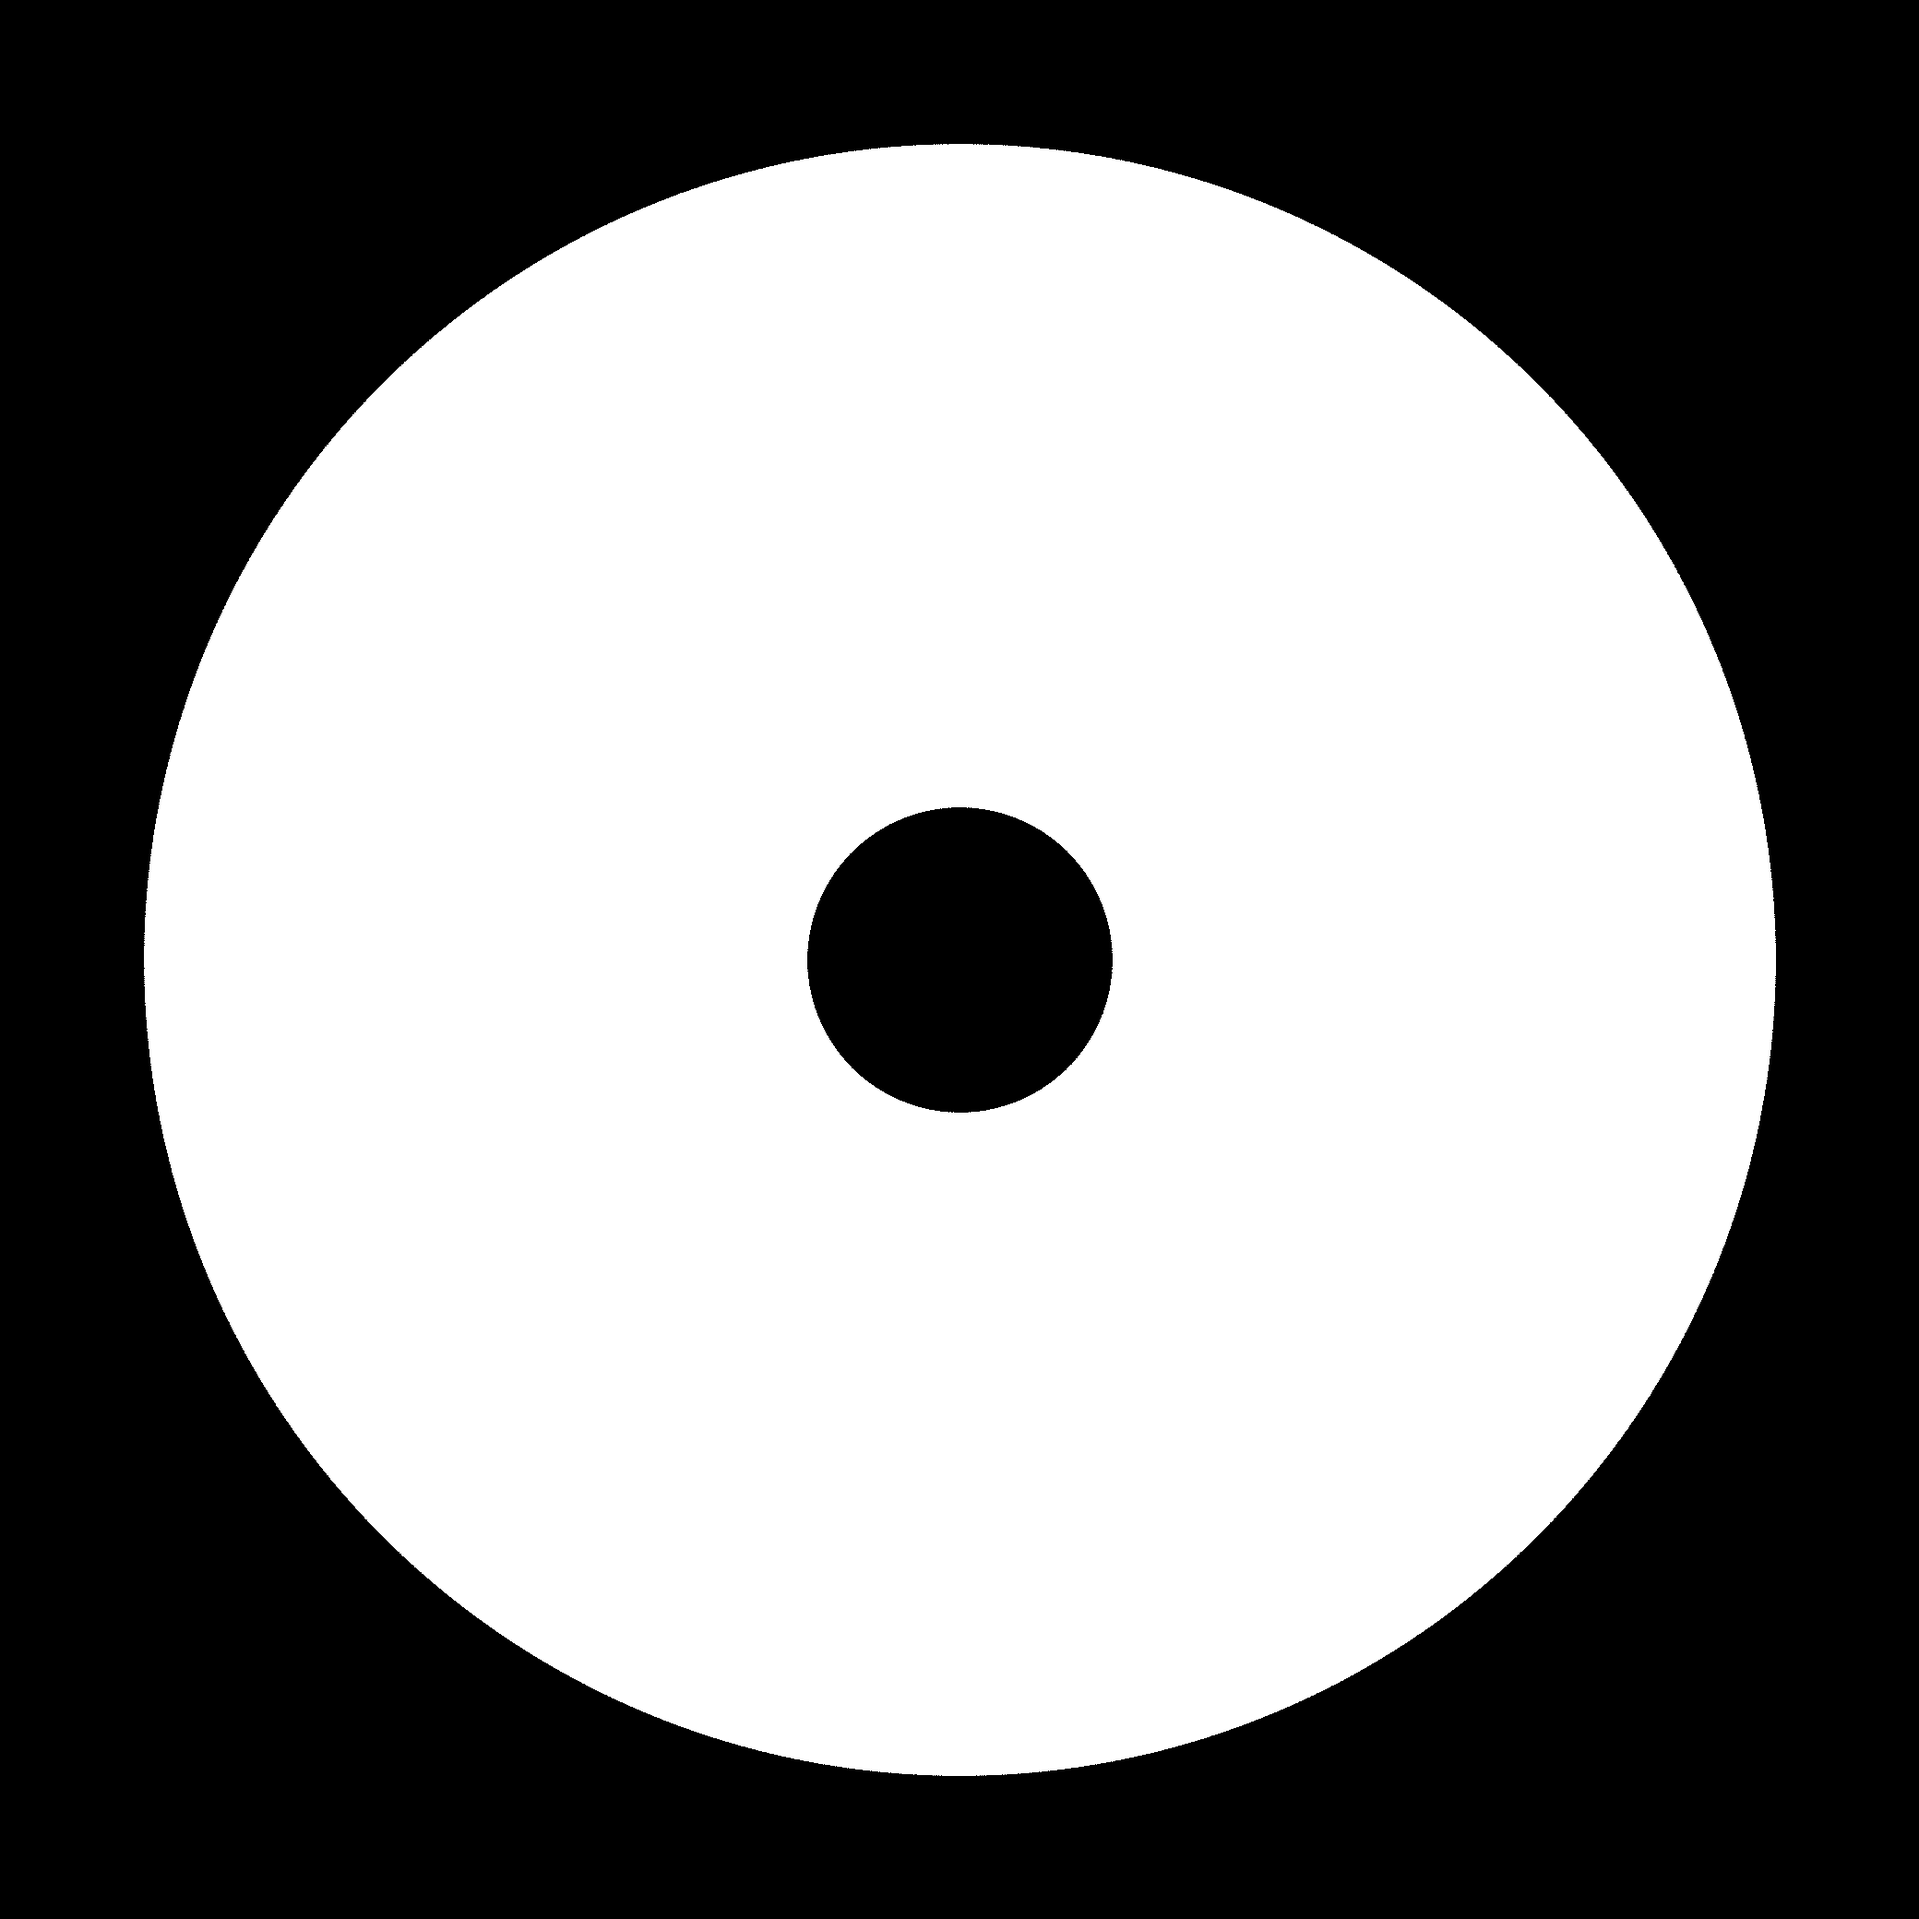
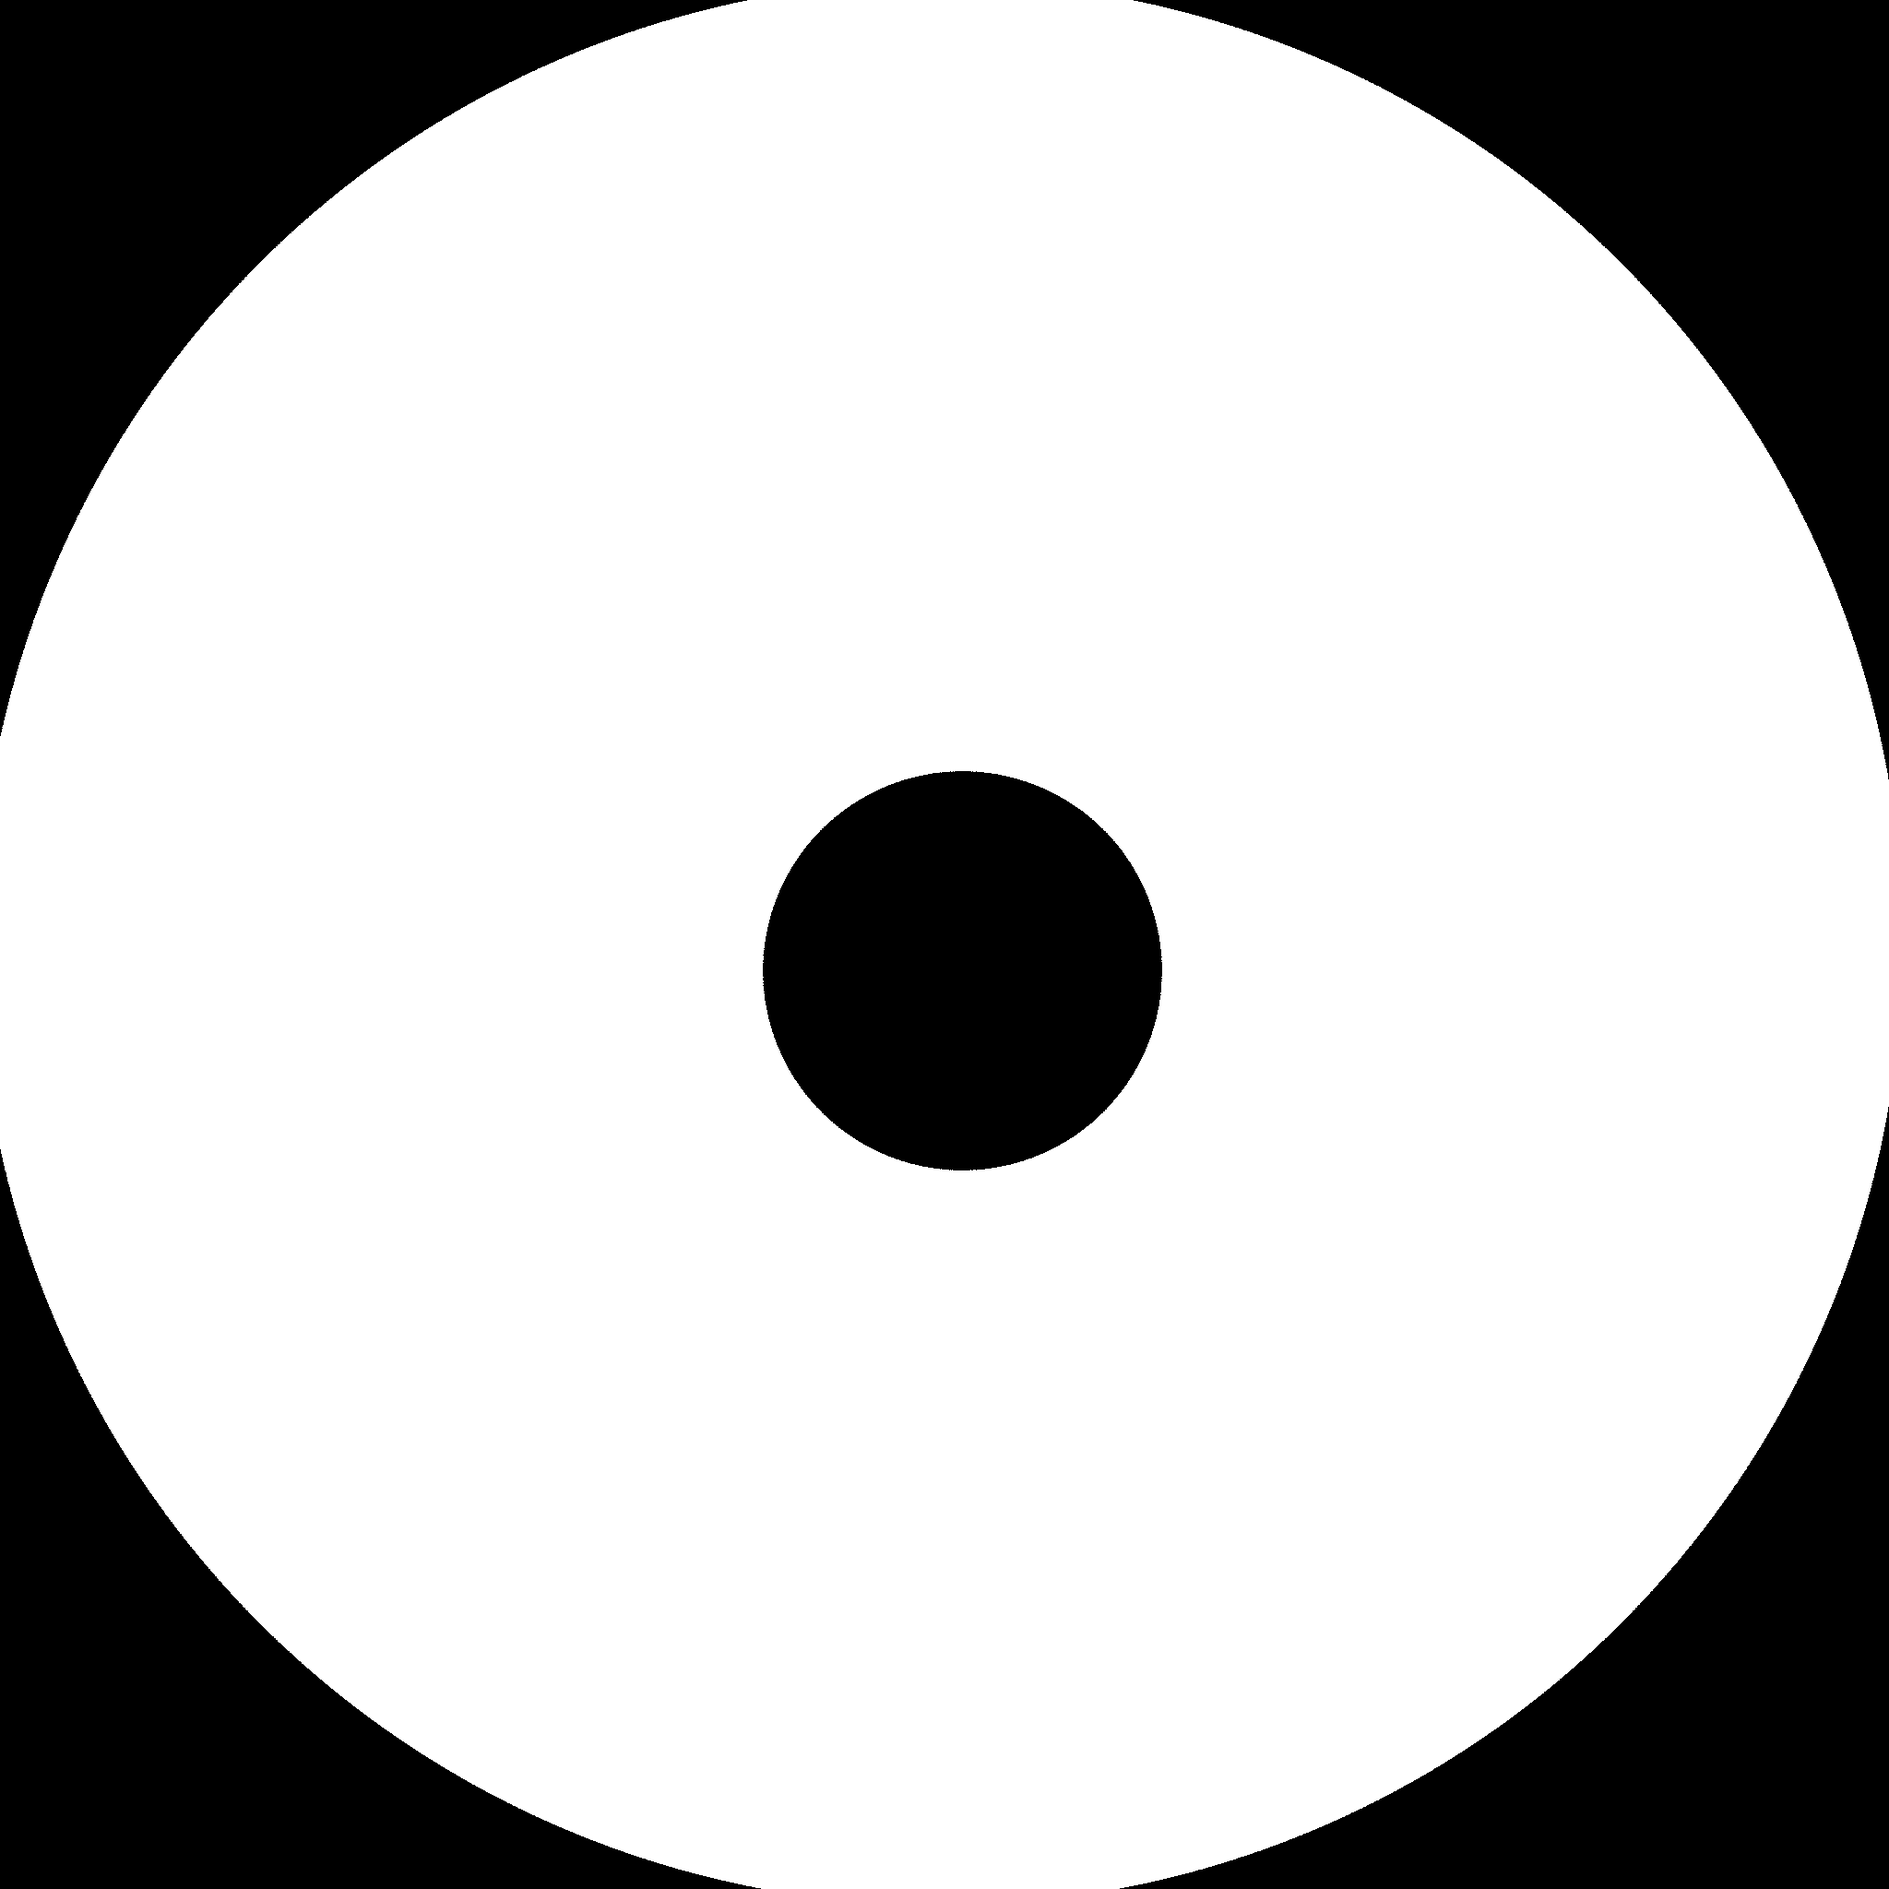
Improved COR1/2 image displaying

Changed region(s): [[0.0, 0.0, 1.0, 1.0], [0.4062, 0.4062, 0.625, 0.625]]

diff --git a/src/Media/MediaManagerUI.js b/src/Media/MediaManagerUI.js
@@ -81,7 +81,7 @@ var MediaManagerUI = Class.extend(
         // Make sure the list contains no more than twelve items
         if (this._historyBody.find(".history-entry").length > 12) {
             id = this._historyBody.find(".history-entry").last().attr('id');
-            this._removeScreenshot(id);
+            this._removeItem(id);
             this._manager.remove(id);
         }
         

diff --git a/api/scripts/alpha_mask_creation/index.php b/api/scripts/alpha_mask_creation/index.php
@@ -8,8 +8,6 @@
     //       writable directory named "out" in the current working directory.
     //
     
-    // 2011/04/19 Normalize with respect to 1 AU
-
     // LASCO C2
     $c2 = array(
         "filename"   => "LASCO_C2_Mask.png",
@@ -33,46 +31,46 @@
     );
     
     // COR1 A&B
-    // http://www.springerlink.com/content/u040662v341354u5/fulltext.pdf
+    // COR 1 & 2 values chosen by hand
     $cor1a = array(
         "filename"   => "COR1-A_Mask.png",
-        "width"      => 520,
-        "height"     => 520,
+        "width"      => 2048,
+        "height"     => 2048,
         "imageScale" => 15.008600,
         "rsun"       => 992.91301,
-        "roccInner"  => 1.52, //1.4
-        "roccOuter"  => 4.4  //4
+        "roccInner"  => 5.85,
+        "roccOuter"  => 17.4
     );
     
     $cor1b = array(
         "filename"   => "COR1-B_Mask.png",
-        "width"      => 520,
-        "height"     => 520,
+        "width"      => 2048,
+        "height"     => 2048,
         "imageScale" => 15.008600,
         "rsun"       => 884.55757,
-        "roccInner"  => 1.52, //1.4
-        "roccOuter"  => 4.4  //4
+        "roccInner"  => 6.5, //6.4, //6.55,
+        "roccOuter"  => 19 //20
     );
     
     // COR2
     $cor2a = array(
         "filename"   => "COR2-A_Mask.png",
-        "width"      => 2080,
-        "height"     => 2080,
+        "width"      => 2048,
+        "height"     => 2048,
         "imageScale" => 15.008600,
         "rsun"       => 992.91208,
-        "roccInner"  => 2.8, // just guessing...
-        "roccOuter"  => 16
+        "roccInner"  => 2.7,
+        "roccOuter"  => 15.75
     );
     
     $cor2b = array(
         "filename"   => "COR2-B_Mask.png",
-        "width"      => 2080,
-        "height"     => 2080,
+        "width"      => 2048,
+        "height"     => 2048,
         "imageScale" => 15.008600,
         "rsun"       => 884.55531,
-        "roccInner"  => 2.8,
-        "roccOuter"  => 15
+        "roccInner"  => 3.67,
+        "roccOuter"  => 17.7
     );
     
     
@@ -83,15 +81,28 @@
         // Solar Radii in pixels
         $rsunInPixels = $mask["rsun"] / $mask["imageScale"];
         
-        // crpix1 & 2 approximate values (ideal case)
-        $crpix1 = $mask['width'] / 2;
-        $crpix2 = $mask['height'] / 2;
+        // Mask is centered by default
+        $innerX = $mask['width'] / 2;
+        $innerY = $mask['height'] / 2;
+        $outerX = $mask['width'] / 2;
+        $outerY = $mask['height'] / 2;
+        
+        // Offset COR2-B images
+        if ($mask['filename'] == "COR2-B_Mask.png") {
+            $innerX += 19;
+            $innerY += 28;
+            $outerY -= 2;
+            $outerX -= 5;
+        } else if ($mask['filename'] == "COR1-B_Mask.png") {
+            $innerX += 2;
+            $innerY += 27;
+        }
         
         // Convert to pixels
         $radiusInner  = $mask['roccInner'] * $rsunInPixels;
         $radiusOuter  = $mask['roccOuter'] * $rsunInPixels;
-        $innerCircleY = $crpix2 + $radiusInner;
-        $outerCircleY = $crpix2 + $radiusOuter;
+        $innerCircleY = $innerY + $radiusInner;
+        $outerCircleY = $outerY + $radiusOuter;
         
         // The ImageMagick circle primitive makes a disk (filled) or 
         // circle (unfilled).Give the center and any point on the perimeter.
@@ -100,8 +111,8 @@
                '-monochrome out/%s';
         
         $cmd = sprintf(
-            $cmd, $mask['width'], $mask['height'], $crpix1, $crpix2, $crpix1,
-            $outerCircleY, $crpix1, $crpix2, $crpix1, $innerCircleY,
+            $cmd, $mask['width'], $mask['height'], $outerX, $outerY, $outerX,
+            $outerCircleY, $innerX, $innerY, $innerX, $innerCircleY,
             $mask['filename']
         );
         //$cmd = "convert -size {$mask['width']}x{$mask['height']} xc:black -fill white -draw \"circle $crpix1,$crpix2 $crpix1,$outerCircleY\"" .

diff --git a/install/org/helioviewer/db.py b/install/org/helioviewer/db.py
@@ -155,10 +155,10 @@ def create_datasource_table(cursor):
         (25, 'EUVI-B 195', 'STEREO B EUVI 195', 4, 6, 7, 4, 1, 0),
         (26, 'EUVI-B 284', 'STEREO B EUVI 284', 4, 6, 7, 6, 1, 0),
         (27, 'EUVI-B 304', 'STEREO B EUVI 304', 4, 6, 7, 7, 1, 0),
-        (28, 'COR1-A', 'STEREO A COR1', 3, 6, 8, 14, 2, 0),
-        (29, 'COR2-A', 'STEREO A COR2', 3, 6, 9, 14, 3, 0),
-        (30, 'COR1-B', 'STEREO B COR1', 4, 6, 8, 14, 2, 0),
-        (31, 'COR2-B', 'STEREO B COR2', 4, 6, 9, 14, 3, 0);
+        (28, 'SECCHI COR1-A', 'STEREO A COR1', 3, 6, 8, 14, 2, 0),
+        (29, 'SECCHI COR2-A', 'STEREO A COR2', 3, 6, 9, 14, 3, 0),
+        (30, 'SECCHI COR1-B', 'STEREO B COR1', 4, 6, 8, 14, 2, 0),
+        (31, 'SECCHI COR2-B', 'STEREO B COR2', 4, 6, 9, 14, 3, 0);
     """)
 
 def create_observatory_table(cursor):

diff --git a/api/src/Image/ImageType/CORImage.php b/api/src/Image/ImageType/CORImage.php
@@ -119,11 +119,11 @@ class Image_ImageType_CORImage extends Image_HelioviewerImage
     protected function setAlphaChannel(&$imagickImage)
     {
         if ($this->detector == "COR1") {
-            $maskWidth  = 520;
-            $maskHeight = 520;
+            $maskWidth  = 512;
+            $maskHeight = 512;
         } else {
-            $maskWidth  = 2080;
-            $maskHeight = 2080;
+            $maskWidth  = 2048;
+            $maskHeight = 2048;
         }
         
         $dir = HV_ROOT_DIR . "/api/resources/images/alpha-masks/";
